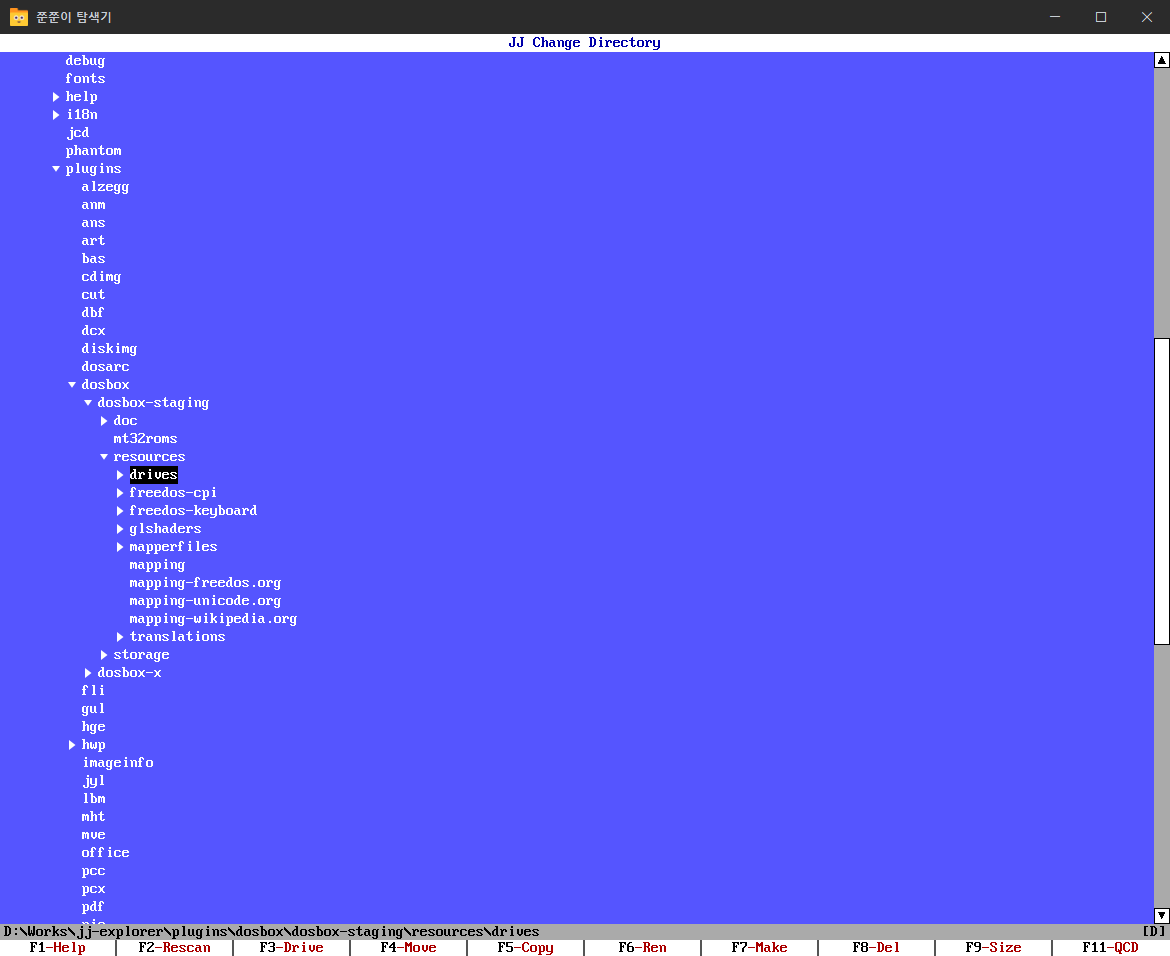
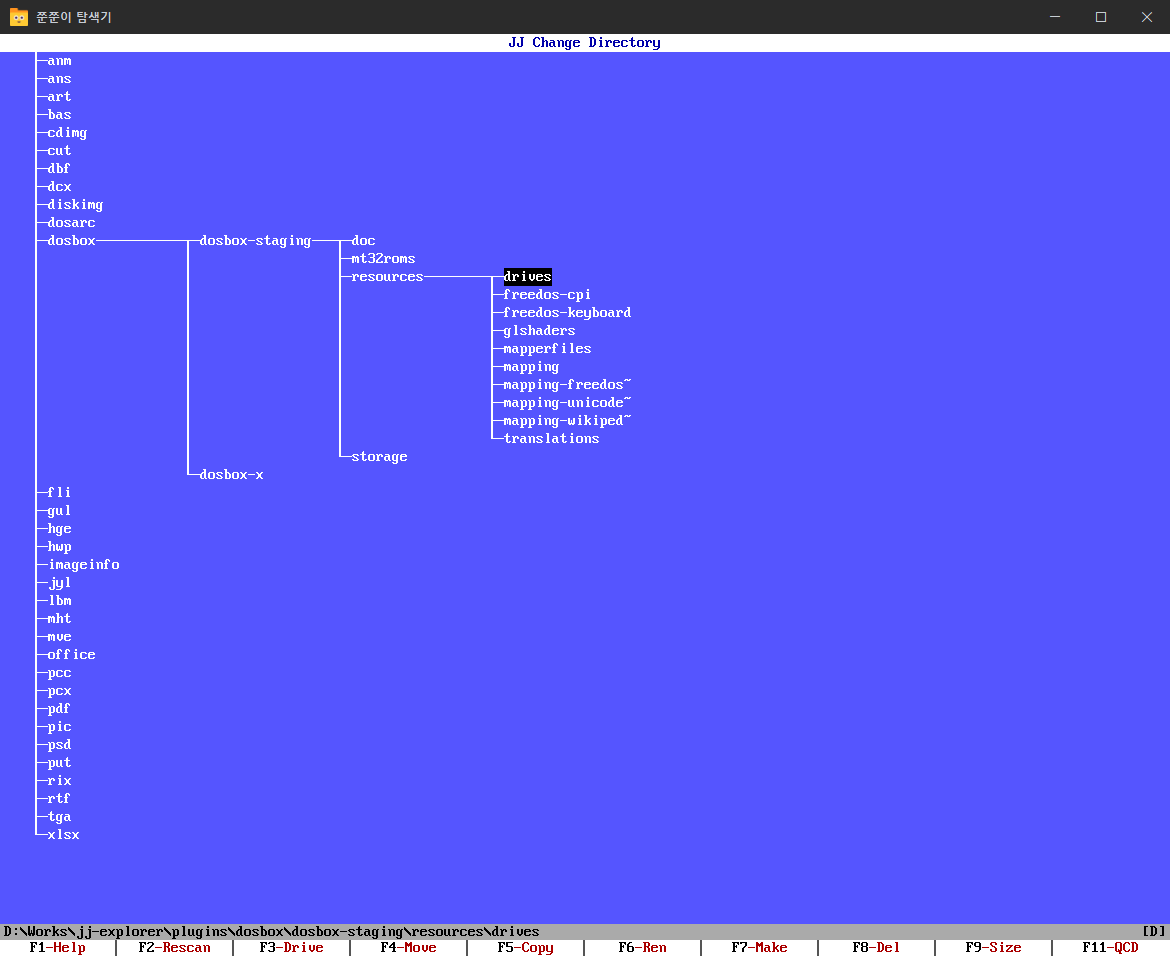
README: NCD style folder manager and thumbnail view screenshots

diff --git a/README.md b/README.md
@@ -70,9 +70,13 @@ The program and its manual are available in Korean and English. Choose the langu
 
 ![Command palette listing the photo tools for the search word 사진](screenshots/command-palette.png)
 
-**JCD folder tree (F10).** The classic DOS style folder tree covers the window. Move with the arrow keys and press Enter to go to a folder, or make, rename and delete folders right there. A Norton NCD style layout is also available.
+**Folder manager (F10).** A Norton NCD style folder tree covers the window, with each level in its own column. Move with the arrow keys and press Enter to go to a folder, or make, rename and delete folders right there. The classic JCD list layout is also available.
 
-![JCD folder tree with the plugins folder expanded](screenshots/jcd.png)
+![NCD style folder manager with the plugins folder expanded](screenshots/jcd.png)
+
+**Thumbnail view (Alt+7).** Pictures and videos as a grid of thumbnails in a panel, here next to Quick View showing the picture under the cursor.
+
+![Thumbnail view of screenshots, with Quick View showing the selected picture](screenshots/thumbnails.png)
 
 **Folder size treemap.** Each rectangle is sized by the space a file or folder takes. Click a folder to go inside.
 
